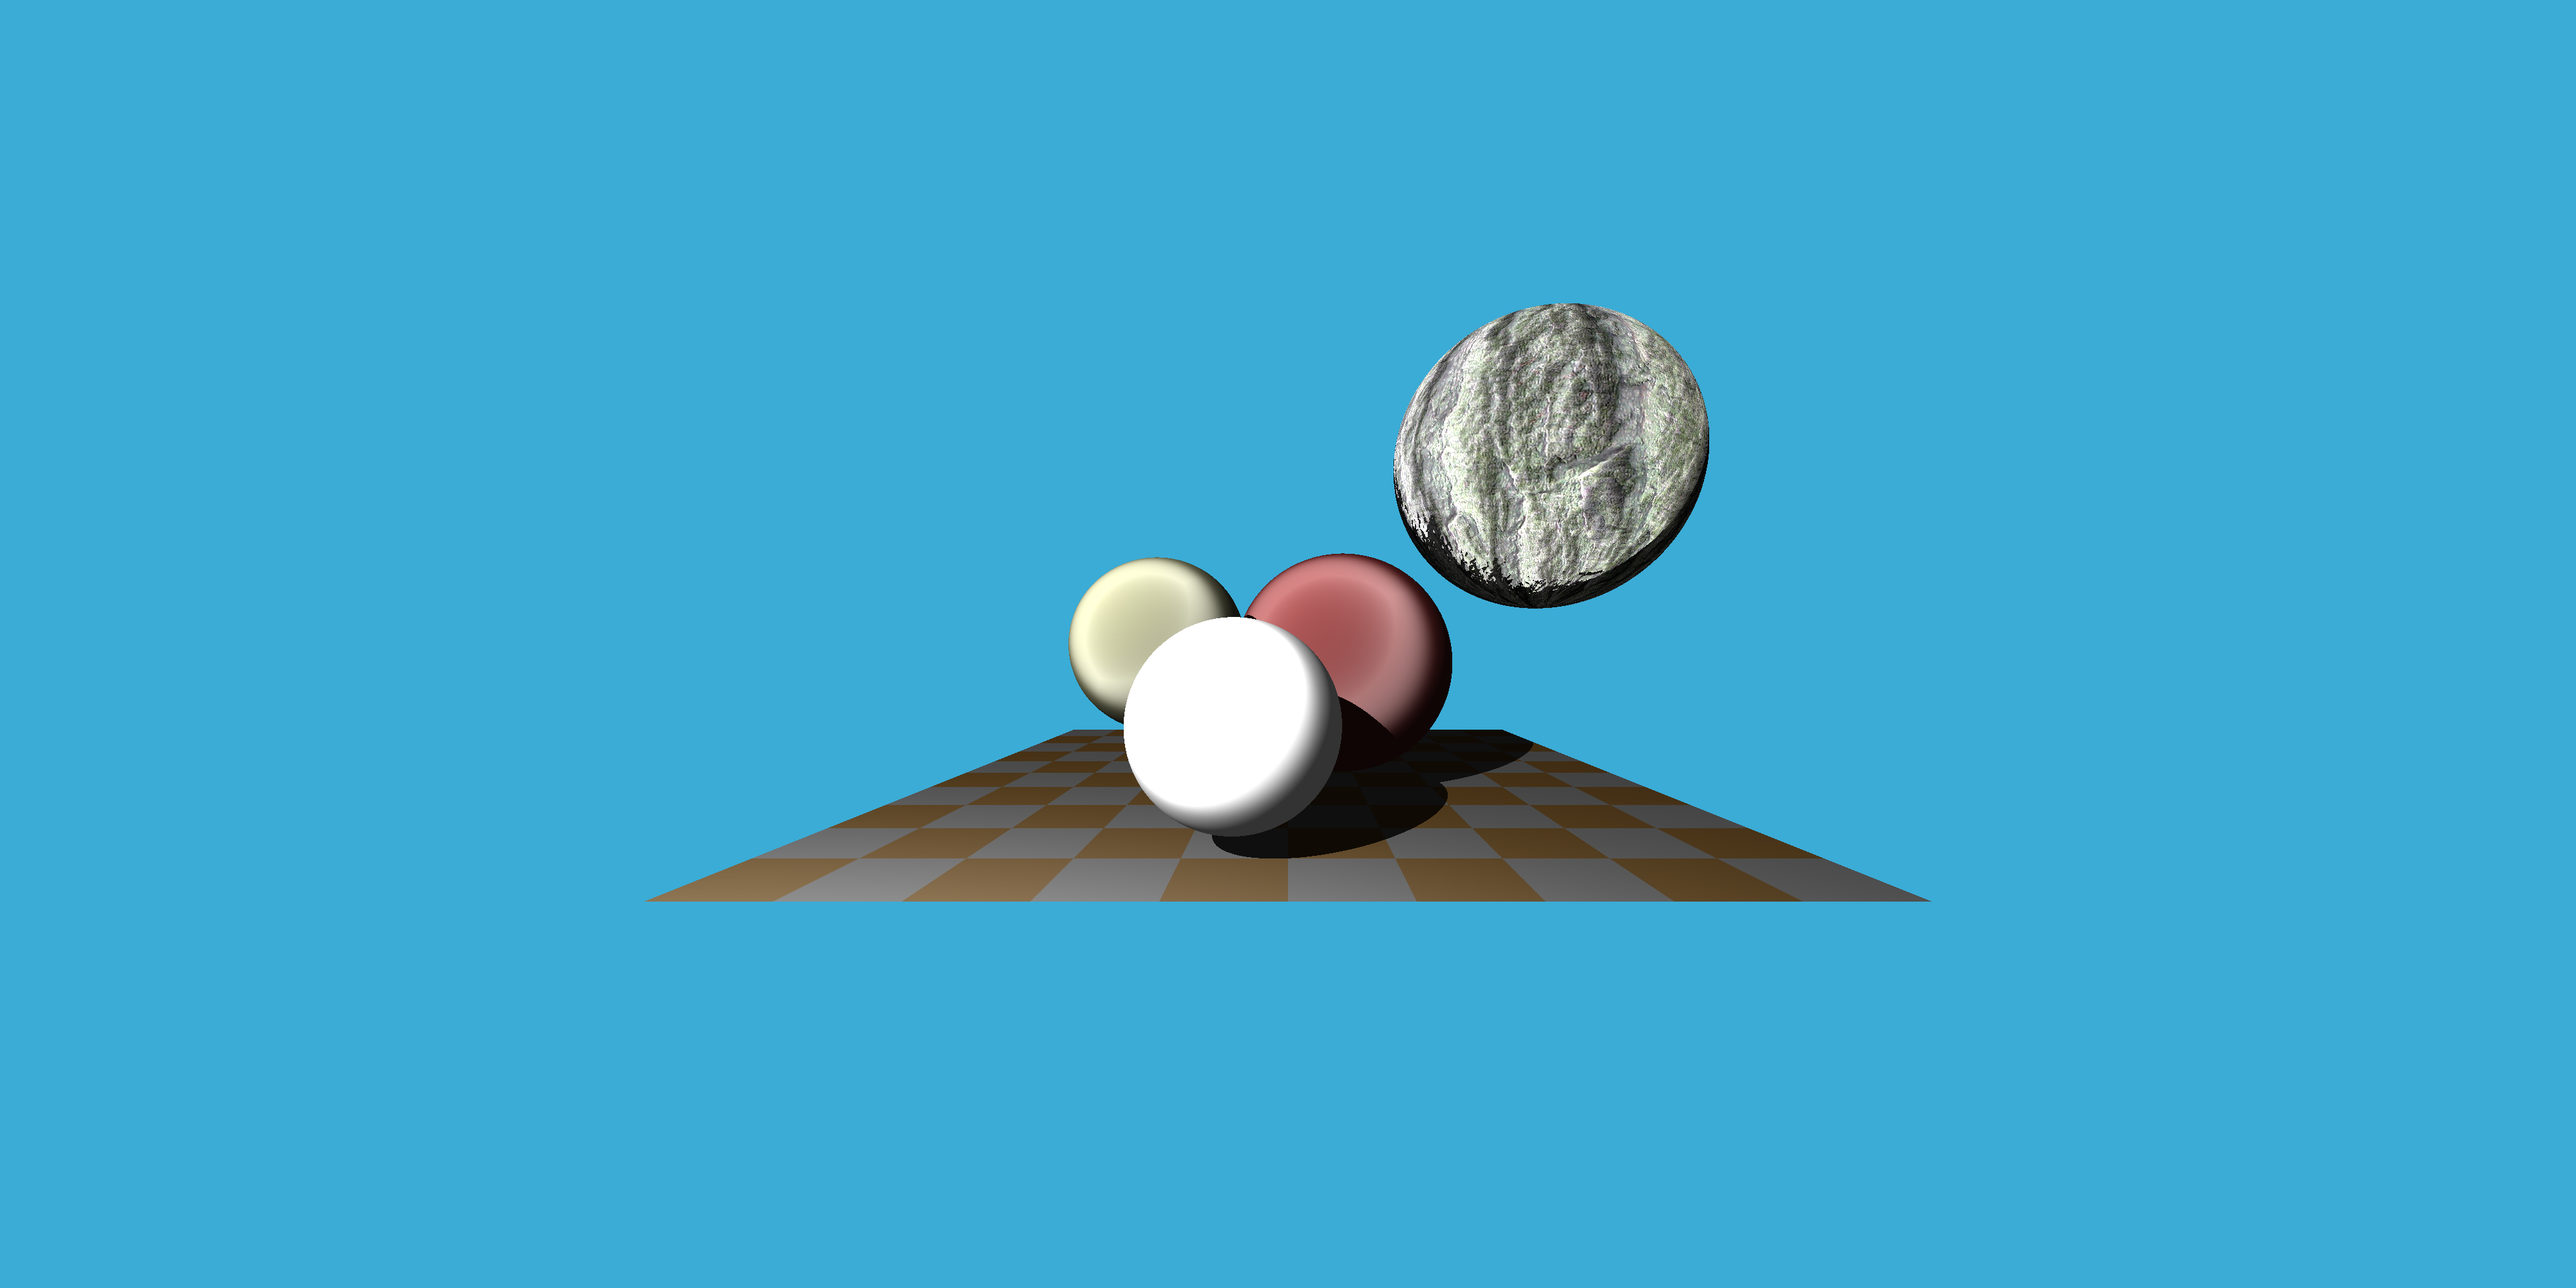
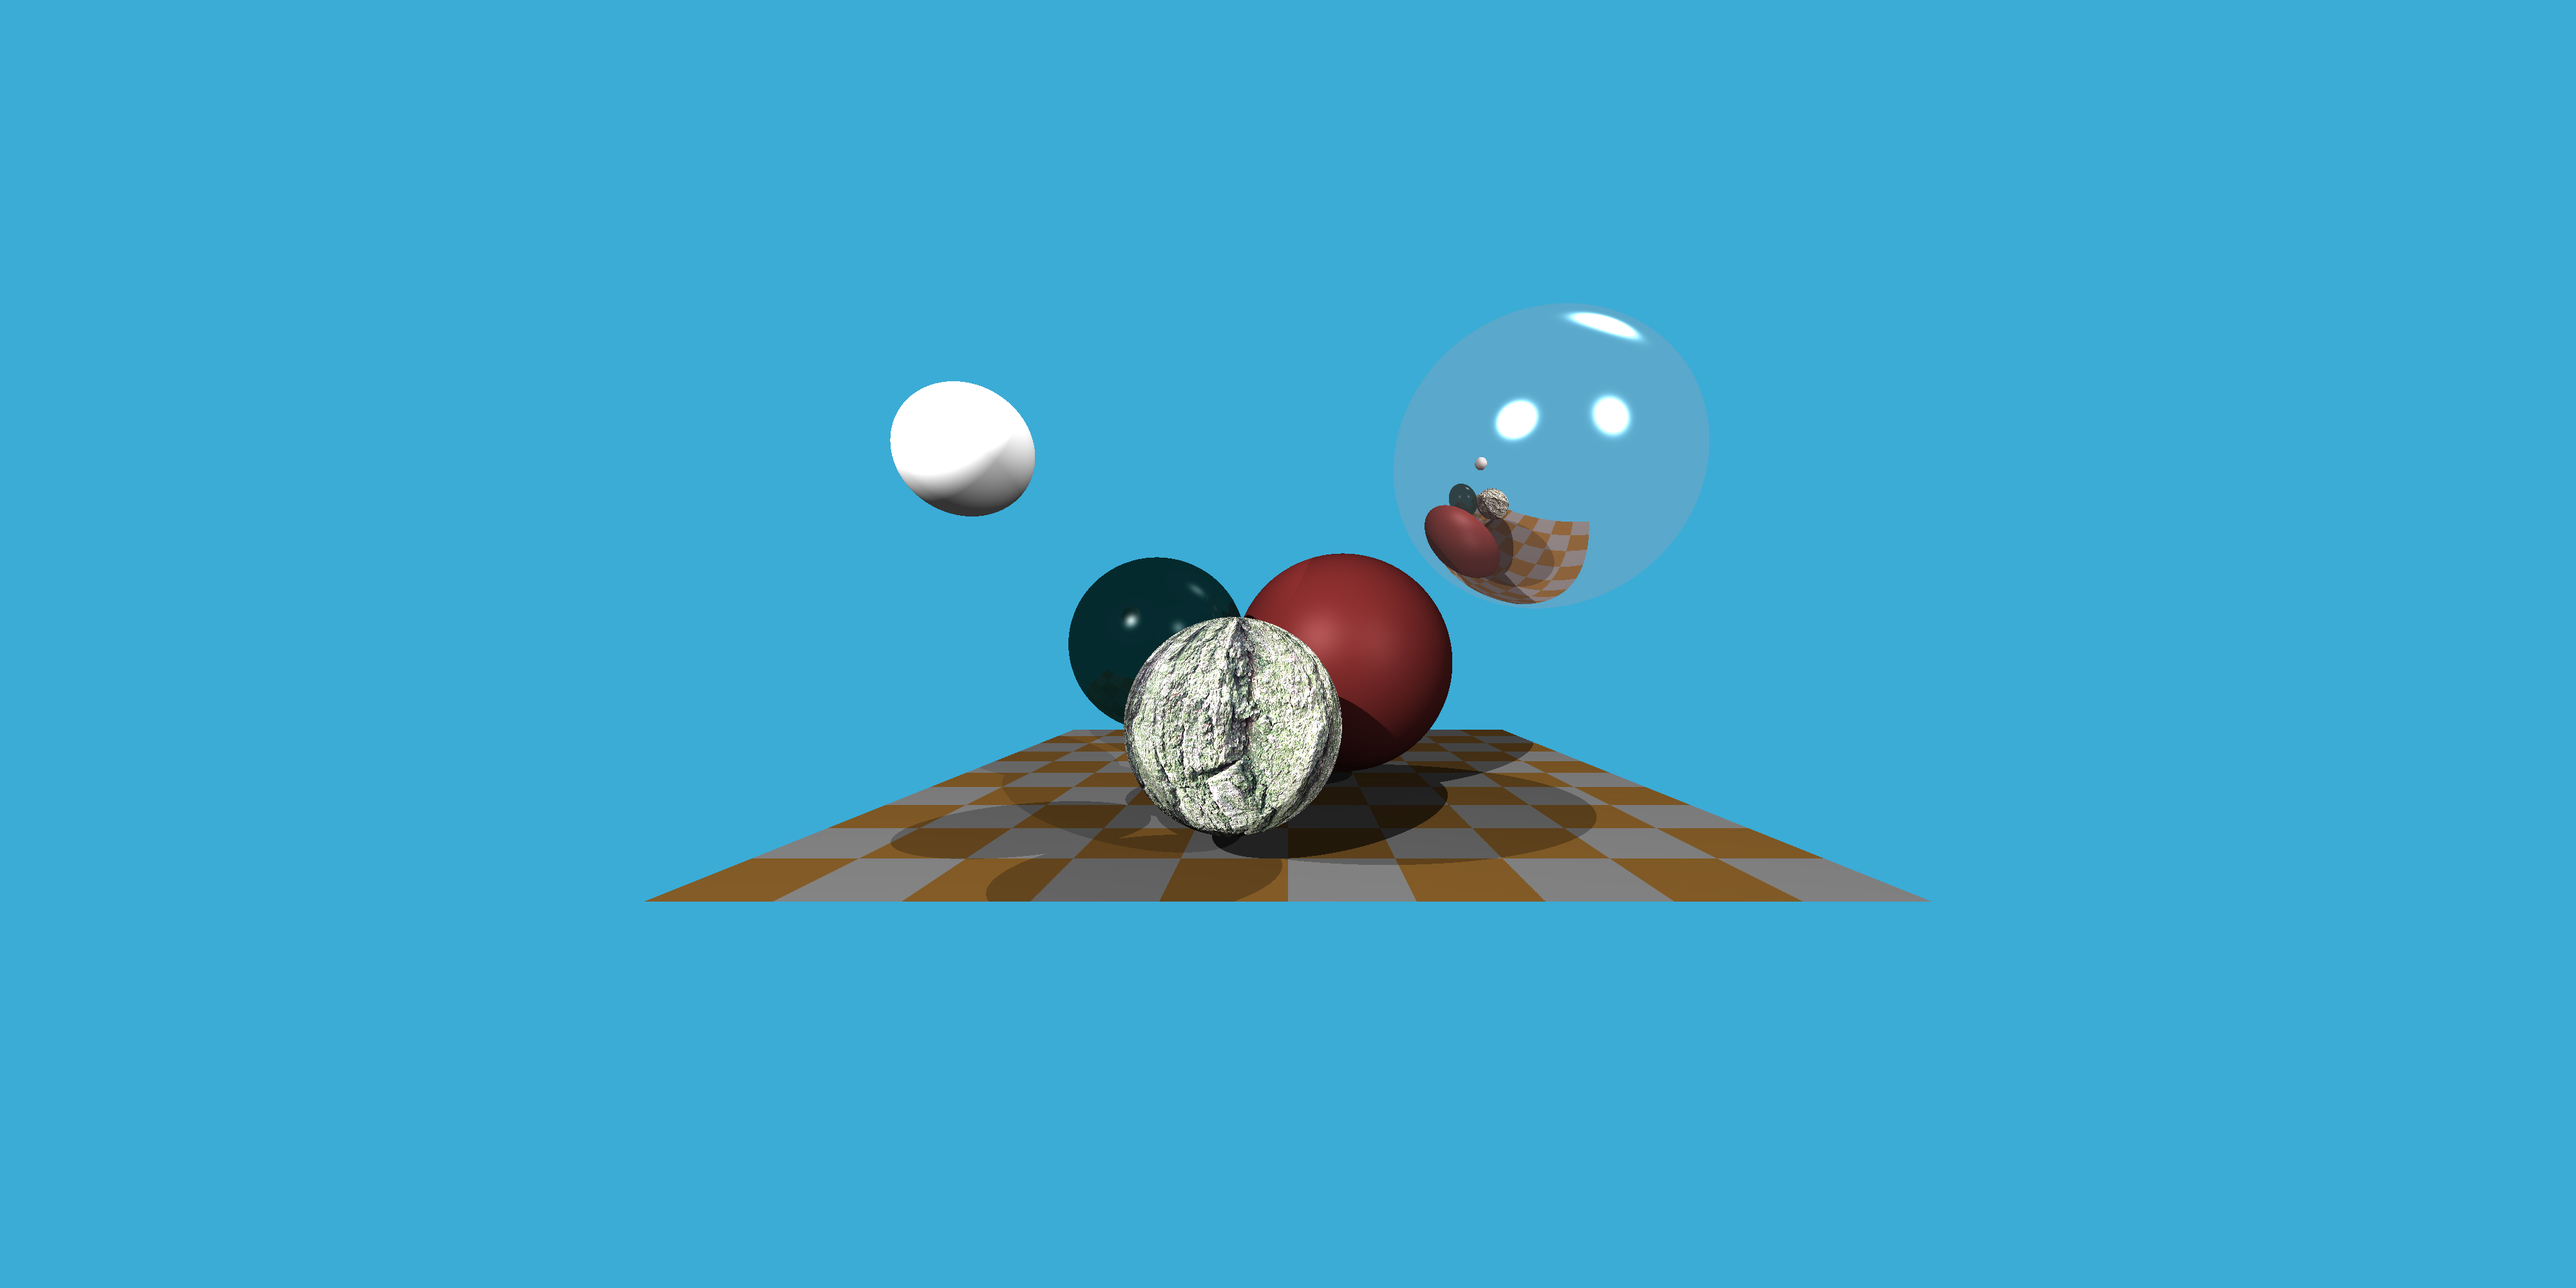
add reflect

Changed region(s): [[0.25, 0.217, 0.75, 0.713], [0.3438, 0.279, 0.4062, 0.403]]

diff --git a/main.cpp b/main.cpp
@@ -3,6 +3,8 @@
 #include "scene.h"
 #include "ray.h"
 #include "material.h"
+#include <algorithm>
+#include <iostream>
 #include "image.h"
 #define STB_IMAGE_IMPLEMENTATION
 #include "stbi_image.h"
@@ -23,10 +25,10 @@ Image bark(barkImage, x, y);
 
 glm::vec3 reflect(const glm::vec3& I, const glm::vec3& N)
 {
-    return  N * glm::dot(N, I) * 2.0f - I;
+    return N * glm::dot(N, I) * 2.0f - I;
 }
 
-glm::vec3 Refract(const glm::vec3& I, glm::vec3& N, float& refractiveIndex)
+glm::vec3 refract(glm::vec3& I, glm::vec3& N, float& refractiveIndex)
 {
     float cosi = glm::clamp(-1.0f, 1.0f, glm::dot(I, N));
     float etai = 1, etat = refractiveIndex;
@@ -43,7 +45,33 @@ glm::vec3 Refract(const glm::vec3& I, glm::vec3& N, float& refractiveIndex)
     return k < 0 ? glm::vec3(0.0f, 0.0f, 0.0f) : eta * I + (eta * cosi - sqrtf(k)) * n;
 }
 
-static void getSphereTextureCoordinats(const glm::vec3& p, float& u, float& v) {
+void fresnel(const glm::vec3& I, const glm::vec3& N, const float& ior, float& kr)
+{
+    float cosi = glm::clamp(-1.0f, 1.0f, glm::dot(I, N));
+    float etai = 1, etat = ior;
+
+    if (cosi > 0)
+    {
+        std::swap(etai, etat);
+    }
+
+    float sint = etai / etat * sqrtf(std::max(0.f, 1 - cosi * cosi));
+
+    if (sint >= 1) 
+    {
+        kr = 1;
+    }
+    else
+    {
+        float cost = sqrtf(std::max(0.f, 1 - sint * sint));
+        cosi = fabsf(cosi);
+        float Rs = ((etat * cosi) - (etai * cost)) / ((etat * cosi) + (etai * cost));
+        float Rp = ((etai * cosi) - (etat * cost)) / ((etai * cosi) + (etat * cost));
+        kr = (Rs * Rs + Rp * Rp) / 2;
+    }
+}
+
+void getSphereTextureCoordinats(const glm::vec3& p, float& u, float& v) {
     float r = std::sqrt(p.x * p.x + p.y * p.y + p.z * p.z);
     float phi = std::atan2(-p.z,p.x);
     u = (phi + glm::pi<float>()) / (2 * glm::pi<float>());
@@ -52,7 +80,7 @@ static void getSphereTextureCoordinats(const glm::vec3& p, float& u, float& v) {
 }
 
 bool SceneIntersect(const Ray& ray, const std::vector<Sphere>& spheres, glm::vec3& hit,
-    glm::vec3& normal, Material& material)
+    glm::vec3& normal, Material& material,Sphere& sphere)
 {
     float spheres_dist = kInfinity;
     for (int i = 0; i < spheres.size(); i++)
@@ -72,6 +100,7 @@ bool SceneIntersect(const Ray& ray, const std::vector<Sphere>& spheres, glm::vec
                 material.color = bark.value(u,v) ;
             }  
             normal = glm::normalize(normal);
+            sphere = spheres[i];
         }
     }
 
@@ -92,68 +121,75 @@ bool SceneIntersect(const Ray& ray, const std::vector<Sphere>& spheres, glm::vec
     return std::min(spheres_dist, checkerboard_dist) < 1000;
 }
 
-glm::vec3 CastRay(const Ray& ray, Scene& scene, int depth = 0)
+void Lighting(const Scene& scene,glm::vec3& normal, glm::vec3& hitPoint,
+    const glm::vec3& v,float& specularExp,float& diffuse, float& specular, float& back)
+{
+    std::for_each(scene.lights.begin(),scene.lights.end(), [&](auto& light)
+        {
+            if (light.type == "ambient")
+                back += light.intensity;
+            else
+            {
+                if (light.type == "point")
+                {
+                    glm::vec3 lightDir = glm::normalize(light.position - hitPoint);
+                    float lightDistance = glm::length(light.position - hitPoint);
+                    
+                    glm::vec3 shadowOrig = glm::dot(lightDir, normal) < 0 ? hitPoint - normal * 1e-3f : hitPoint + normal * 1e-3f;
+                    glm::vec3 shadowDir = glm::normalize(light.position - hitPoint);
+                    glm::vec3 shadowPt, shadowN;
+                    Material tmpMaterial;
+                    Sphere tmpSphere;
+
+                    auto sceneIntersect = SceneIntersect(Ray(shadowOrig, shadowDir),scene.spheres, shadowPt,
+                        shadowN, tmpMaterial,tmpSphere);
+
+                    if (!sceneIntersect || tmpSphere.type == "lightSpere" || glm::length(shadowPt - shadowOrig) > lightDistance)
+                    {
+                        float nl = glm::dot(normal, lightDir);
+                        diffuse += std::max(0.0f, nl) * light.intensity;
+
+                        glm::vec3 r = glm::normalize(reflect(lightDir, normal));
+                        float rv = glm::dot(v, r);
+                        specular += light.intensity * glm::pow(std::max(0.0f, rv), specularExp);
+                    }
+                }
+            }
+        });
+}
+
+glm::vec3 Trace(const Ray& ray, Scene& scene, int depth = 0)
 {
     glm::vec3 point, normal;
     Material material;
+    Sphere closetSphere;
 
-    if (depth > 4 || !SceneIntersect(ray, scene.spheres, point, normal, material))
+    if (depth > 4 || !SceneIntersect(ray, scene.spheres, point, normal, material,closetSphere))
     {
         return kDefaultBackgroundColor;
     }
 
-    glm::vec3 reflectDir = glm::normalize(reflect(ray.direction, normal));
-    glm::vec3 reflectOrig = glm::dot(reflectDir, normal) < 0 ? point - normal * 1e-3f : point + normal * 1e-3f;
-    glm::vec3 reflectColor = CastRay(Ray(reflectOrig, reflectDir), scene, depth + 1);
+    float kr = 1;
+    fresnel(ray.direction, normal, material.albedo[3], kr);
+    bool outside = glm::dot(normal, ray.direction) < 0;
+    
+    glm::vec3 reflectDir = glm::normalize(-reflect(ray.direction, normal));
+    glm::vec3 reflectOrigin = glm::dot(reflectDir, normal) < 0 ? point - normal * 1e-2f : point + normal * 1e-2f;
+    glm::vec3 reflectedColor = Trace(Ray(reflectOrigin, reflectDir), scene, depth + 1);
 
-    float diffuseLightIntensity = 0;
-    float specularLightIntensity = 0;
-    glm::vec3 v = glm::normalize(ray.origin - point);
-
-    for (size_t i = 0; i < scene.lights.size(); i++)
-    {
-        glm::vec3 lightDir = glm::normalize(scene.lights[i].position - point);
-        float lightDistance = glm::length(scene.lights[i].position - point);
-        glm::vec3 h = glm::normalize(v + lightDir);
-
-        glm::vec3 shadowOrig = glm::dot(lightDir, normal) < 0 ? point - normal * 1e-3f : point + normal * 1e-3f;
-        glm::vec3 shadowDir = glm::normalize(scene.lights[i].position - point);
-        glm::vec3 shadow_pt, shadow_N;
-        Material tmpmaterial;
-
-        auto sceneIntersect = SceneIntersect(Ray(shadowOrig, shadowDir), scene.spheres, shadow_pt,
-            shadow_N, tmpmaterial);
-
-        if (sceneIntersect && glm::length(shadow_pt - shadowOrig) < lightDistance)
-           continue; 
-
-        float nh = glm::dot(normal, h);
-        float m = 1.0f;
-        float nv = glm::dot(normal, v);
-        float nl = glm::dot(normal, lightDir);
-        float d = glm::pow(glm::e<float>(), -(1 - nh * nh) / (m * m * nh * nh)) / (m * m * glm::pow(nh, 4.0f));
-        float f = glm::mix(pow(1.0 - nv, 5.0), 1.0, material.refractiveIndex);
-        float k = 2 * nh / glm::dot(h, v);
-        float g = std::min(1.0f, std::min(k * nv, k * nl));
-        float ct = d * f * g / (glm::pi<float>() * nv * nl);
-
-        diffuseLightIntensity += scene.lights[i].intensity * std::max(0.0f, nl);
-        specularLightIntensity += scene.lights[i].intensity  * std::max(0.0f, ct);// *
-           // glm::pow(std::max(0.0f, glm::dot(h, normal)), material.specularExponent);
-
-    }
-
-    glm::vec3 returnColor = material.color * diffuseLightIntensity + glm::vec3(1.0f, 1.0f, 1.0f) * specularLightIntensity * 0.3f +
-        + reflectColor * (float)material.isReflect + material.color * 0.2f;
-    returnColor.r = std::min(1.0f, returnColor.r);
-    returnColor.g = std::min(1.0f, returnColor.g);
-    returnColor.b = std::min(1.0f, returnColor.b);
-    return returnColor;
+    float diffuse = 0, specular = 0, back = 0;
+    Lighting(scene, normal, point, -ray.direction, material.specularExponent, diffuse, specular, back);
+    
+    glm::vec3 returnedColor =  material.color * back + material.color * diffuse * material.albedo[0] +
+        glm::vec3(1.0f,1.0f,1.0f) * specular * material.albedo[1] + reflectedColor * material.albedo[2];
+    returnedColor.r = std::min(1.0f, returnedColor.r);
+    returnedColor.g = std::min(1.0f, returnedColor.g);
+    returnedColor.b = std::min(1.0f, returnedColor.b);
+    return returnedColor;
 }
 
 void render(Scene& scene)
 {
-    static int countOfRender = 1;
     const int width = 4000;
     const int height = 2000;
     constexpr auto fov = glm::pi<float>() / 2;
@@ -166,7 +202,7 @@ void render(Scene& scene)
             float Px = (2 * (i + 0.5f) / (float)width - 1) * std::tanf(fov / 2.0f) * imageAspectRatio;
             float Py = (1 - 2 * (j + 0.5) / (float)height) * std::tanf(fov / 2.0f);
             glm::vec3 rayDirection = glm::normalize(glm::vec3(Px, Py, -1));
-            framebuffer[i + j * width] = CastRay(Ray(glm::vec3(0, 0, 0), rayDirection), scene);
+            framebuffer[i + j * width] = Trace(Ray(glm::vec3(0, 0, 0), rayDirection), scene);
         }
     }
 
@@ -184,21 +220,24 @@ void render(Scene& scene)
 
 int main()
 {
-    Material ivory(glm::vec3(0.4f, 0.4f, 0.3f), 50.0f, 1.0f);
-    Material redRubber( glm::vec3(0.3f, 0.1f, 0.1f), 10.0f, 1.0f);
-    Material rock(glm::vec3(0.5f, 0.48f, 0.48f), 10.0f, 1.0f, true);
-    Material mirror(glm::vec3(1.0f, 1.0f, 1.0f), 142.0f, 1.0f,false,true);
-    Material glass( glm::vec3(0.0f, 0.5f, 0.5f), 125.0f, 1.333f);
+    Material ivory(glm::vec3(0.4f, 0.4f, 0.3f), 50.0f,glm::vec4(0.6, 0.3, 0.1, 0.0));
+    Material redRubber(glm::vec3(0.3f, 0.1f, 0.1f), 10.0f, glm::vec4(0.9, 0.1, 0.0, 0.0));
+    Material rock(glm::vec3(0.5f, 0.48f, 0.48f), 10.0f,glm::vec4(0.9, 0.1, 0.0, 0.0), true);
+    Material mirror(glm::vec3(0.84f, 0.61f, 0.61f), 125.0f, glm::vec4(0.0, 10.0, 0.8, 0.0));
+    Material glass( glm::vec3(0.0f, 0.5f, 0.5f), 125.0f,glm::vec4(0.0, 0.5, 0.1, 0.8));
+    Material light(glm::vec3(1.0f, 1.0f, 1.0f), 1.0f, glm::vec4(1.0f,0.0f,0.0f,0.0f));
 
     Scene mainScene;
-    mainScene.spheres.push_back(Sphere(glm::vec3(-3, 0 ,-15), 2, ivory));
-    mainScene.spheres.push_back(Sphere(glm::vec3(-1.0f,-1.5f, -12), 2, mirror));
+    mainScene.spheres.push_back(Sphere(glm::vec3(-3, 0 ,-15), 2, glass));
+    mainScene.spheres.push_back(Sphere(glm::vec3(-1.0f,-1.5f, -12), 2, rock));
     mainScene.spheres.push_back(Sphere(glm::vec3(1.5, -0.5, -18), 3, redRubber));
-    mainScene.spheres.push_back(Sphere(glm::vec3(7, 5, -18), 4, rock));
+    mainScene.spheres.push_back(Sphere(glm::vec3(7, 5, -18), 4, mirror));
+    mainScene.spheres.push_back(Sphere(glm::vec3(-5.0f, 3.0f, -10.0f), 1, light,"lightSpere"));
 
-    mainScene.lights.push_back(Light(glm::vec3(-20, 20, 20), 1.5));
-   // mainScene.lights.push_back(Light(glm::vec3(30, 50, -25), 1.8));
-   // mainScene.lights.push_back(Light(glm::vec3(30, 20, 30), 1.7));
+    mainScene.lights.push_back(Light(glm::vec3(-20, 20, 20), 1.5f,"point"));
+    mainScene.lights.push_back(Light(glm::vec3(30, 50, -25),0.5f,"point"));
+    mainScene.lights.push_back(Light(glm::vec3(30, 20, 30), 0.6f,"point"));
+    mainScene.lights.push_back(Light(glm::vec3(-10, 30, 30), 0.2f, "ambient"));
 
     render(mainScene);
 }

diff --git a/material.h b/material.h
@@ -8,9 +8,9 @@ class Material
 {
 public:
 
-    Material(const glm::vec3& c, const float& spec, const float& i,bool m = false, bool r = false) : color(c), specularExponent(spec), refractiveIndex(i), 
-        isBump(m), isReflect(r) {}
-    Material() : refractiveIndex(1), color(), specularExponent(0), isBump(false),isReflect(false) {}
+    Material(const glm::vec3& c, const float& spec,const glm::vec4& a,bool m = false) : color(c), specularExponent(spec), 
+        albedo(a),isBump(m) {}
+    Material() : color(), specularExponent(0), isBump(false),albedo(1,0,0,1) {}
     Material(const Material& material)
     {
         copy(material);
@@ -19,16 +19,15 @@ public:
     void copy(const Material& m)
     {
         color = m.color;
-        refractiveIndex = m.refractiveIndex;
         specularExponent = m.specularExponent;
         isBump = m.isBump;
+        albedo = m.albedo;
     }
 
-    float refractiveIndex;
+    glm::vec4 albedo;
     glm::vec3 color;
     float specularExponent;
     bool isBump;
-    bool isReflect;
 
 };
 

diff --git a/geometricObjects.h b/geometricObjects.h
@@ -5,17 +5,20 @@
 #include "Ray.h"
 #include "Material.h"
 #include <vector>
+#include <string>
 
 class Sphere
 {
 public:
-	Sphere(const glm::vec3& c, const float& r, const Material& m) : center(c), radius(r), material(m) {}
-	Sphere(const Sphere& sphere) : center(sphere.center), radius(sphere.radius), material(sphere.material) {}
+	Sphere() {}
+	Sphere(const glm::vec3& c, const float& r, const Material& m,const std::string t = "none") : center(c), radius(r), material(m),type(t) {}
+	Sphere(const Sphere& sphere) : center(sphere.center), radius(sphere.radius), material(sphere.material), type(sphere.type) {}
 	bool hit(const Ray& ray, float& tMin) const;
 
 	glm::vec3 center;
 	float radius;
 	Material material;
+	std::string type;
 	static const float eps;
 };
 

diff --git a/light.h b/light.h
@@ -3,14 +3,17 @@
 #define __LIGHT__
 
 #include <glm.hpp>
+#include <string>
 
 class Light
 {
 public:
-    Light(const glm::vec3& p, const float& i) : position(p), intensity(i) {}
+    Light(const glm::vec3& p, const float& i,const std::string t) : position(p), intensity(i), type(t) { }
+    Light(const Light& l) : position(l.position), intensity(l.intensity), type(l.type) { }
 
     glm::vec3 position;
     float intensity;
+    std::string type;
 };
 
 #endif // !__LIGHT__
